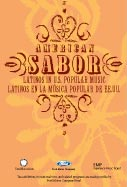
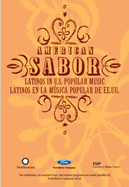
small touchups

diff --git a/less/style.less b/less/style.less
@@ -86,7 +86,7 @@ body {
 }
 
 
-.smallCaps {
+.caps {
 	text-transform: uppercase;
 	/*
 	font-family: 'serif';
@@ -405,10 +405,9 @@ body {
 			border-right: 1px solid @redText;
 
 			img {
-				height: 198px;
-				width: 146px;
+				height: 227px;
 				padding-left: 127px;
-				padding-top: 39px;
+				padding-top: 24px;
 			}
 		}
 
@@ -419,8 +418,9 @@ body {
 			border-right: 1px solid @redText;
 
 			img {
+				height: 204px;
 				padding-left: 138px;
-				padding-top: 46px;
+				padding-top: 37px;
 			}
 		}
 
@@ -428,9 +428,11 @@ body {
 			float: left;
 			height: 275px;
 			width: 400px;
+
 				img {
-					padding-top: 88px;
-					padding-left: 72px;
+					height:104px;
+					padding-top: 86px;
+					padding-left: 61px;
 				}
 			}
 		}
@@ -448,38 +450,41 @@ body {
                                                
 
 	#booksWrapper {
+		//position: relative;
 		width: 100%;
-		z-index: 1000;
+		z-index: -1000;
 
 		.backgroundGrey {
+			position: relative;
 			height: 275px;
 			background-color: @greyBackground;
 			z-index: 1000;
 
 			.booksImageWrapper {
-				position: absolute;
-				width: 900px;
+				position: relative;
+				width: 90%;
 				height: 275px;
-				margin-left: 0;
+				margin: 0 auto;
 				padding-left: 0;
-				left: 183px;
+				//left: 183px;
 
 				.booksLinkImage1 {
+					margin-left: 46px;
 					float: left;
 					padding: 20px;
 
 					img {
-						height: 124px;
-						width: 151px;
-						margin-top:58px;
+						height: 162px;
+						//width: 151px;
+						margin-top:39px;
 						
-	       				&:hover {
+	       		&:hover {
 					-webkit-box-shadow: 0 8px 15px -5px black;
 					   -moz-box-shadow: 0 8px 15px -5px black;
 					        box-shadow: 0 8px 15px -5px black;
 					        //width: 103%;
 					        //height: 103%;
-	       				}
+	       		}
 					}
 				}
 				.booksLinkImage2 {
@@ -487,9 +492,9 @@ body {
 					padding: 20px;
 
 					img {
-						height: 123px;
-						width: 112px;
-						margin-top: 58px;
+						height: 178px;
+						//width: 112px;
+						margin-top: 29px;
 
 						&:hover {
 					-webkit-box-shadow: 0 8px 15px -5px black;
@@ -505,9 +510,9 @@ body {
 					padding: 20px;
 
 					img {
-						height: 161px;
-						width: 110px;
-						margin-top: 39px;
+						height: 215px;
+						//width: 110px;
+						margin-top: 12px;
 
 						&:hover {
 					-webkit-box-shadow: 0 8px 15px -5px black;
@@ -541,9 +546,9 @@ body {
 					padding: 20px;
 
 					img {
-						height: 172px;
-						width: 125px;
-						margin-top: 34px;
+						height: 198px;
+						width: 146px;
+						margin-top: 21px;
 
 						&:hover {
 					-webkit-box-shadow: 0 8px 15px -5px black;

diff --git a/about.html b/about.html
@@ -10,8 +10,8 @@ Loads entire about page
 	<div class="aboutTextWrapper">
 		<p1 class="aboutText">
 			After graduating from Rhode Island School
-			of Design with a <span class="smallCaps">bfa</span> in Graphic Design,I
-			worked at the Smithsonian Institution, first
+			of Design with a <span class="caps">bfa</span> in Graphic Design, I
+			worked at the Smithsonian Institution, first <br />
 			as a book designer and then as art director for
 			publications at the Freer and Sackler Galleries.
 			In 2001, I opened my own design practice,
@@ -25,7 +25,7 @@ Loads entire about page
 		</p1>
 		<p1 class="aboutText">
 			I think good design is the result of creative
-			collaboration between designer and client
+			collaboration between designer and client <br />
 			and ultimately should reflect the material
 			being presented rather than overpowering it.
 			Typography is a key element in design and I
@@ -33,9 +33,9 @@ Loads entire about page
 		</p1>
 		<p1 class="aboutText">
 			My work has been recognized for design
-			excellence more than 100 times and has
+			excellence more than 100 times and has <br />
 			been represented in the following design
-			competitions: <span class="smallCaps">aiga</span> 50, AmericanAssociation
+			competitions: <span class="caps">aiga</span> 50, AmericanAssociation
 			of Museums, American Association of
 			University Presses, Art Directors Club of
 			Metropolitan Washington, The Art Directors

diff --git a/portfolio.html b/portfolio.html
@@ -26,7 +26,7 @@ a.clientListA:hover, a.aboutA:hover {
 				<img src="img/blackWomanhood.jpg">
 			</div>
 			<div class="portLinkImage2">
-				<img src="img/sabor.jpg">
+				<img src="img/sabor.gif">
 			</div>
 			<div class="portLinkImage3">
 				<img src="img/anatsui.jpg">
